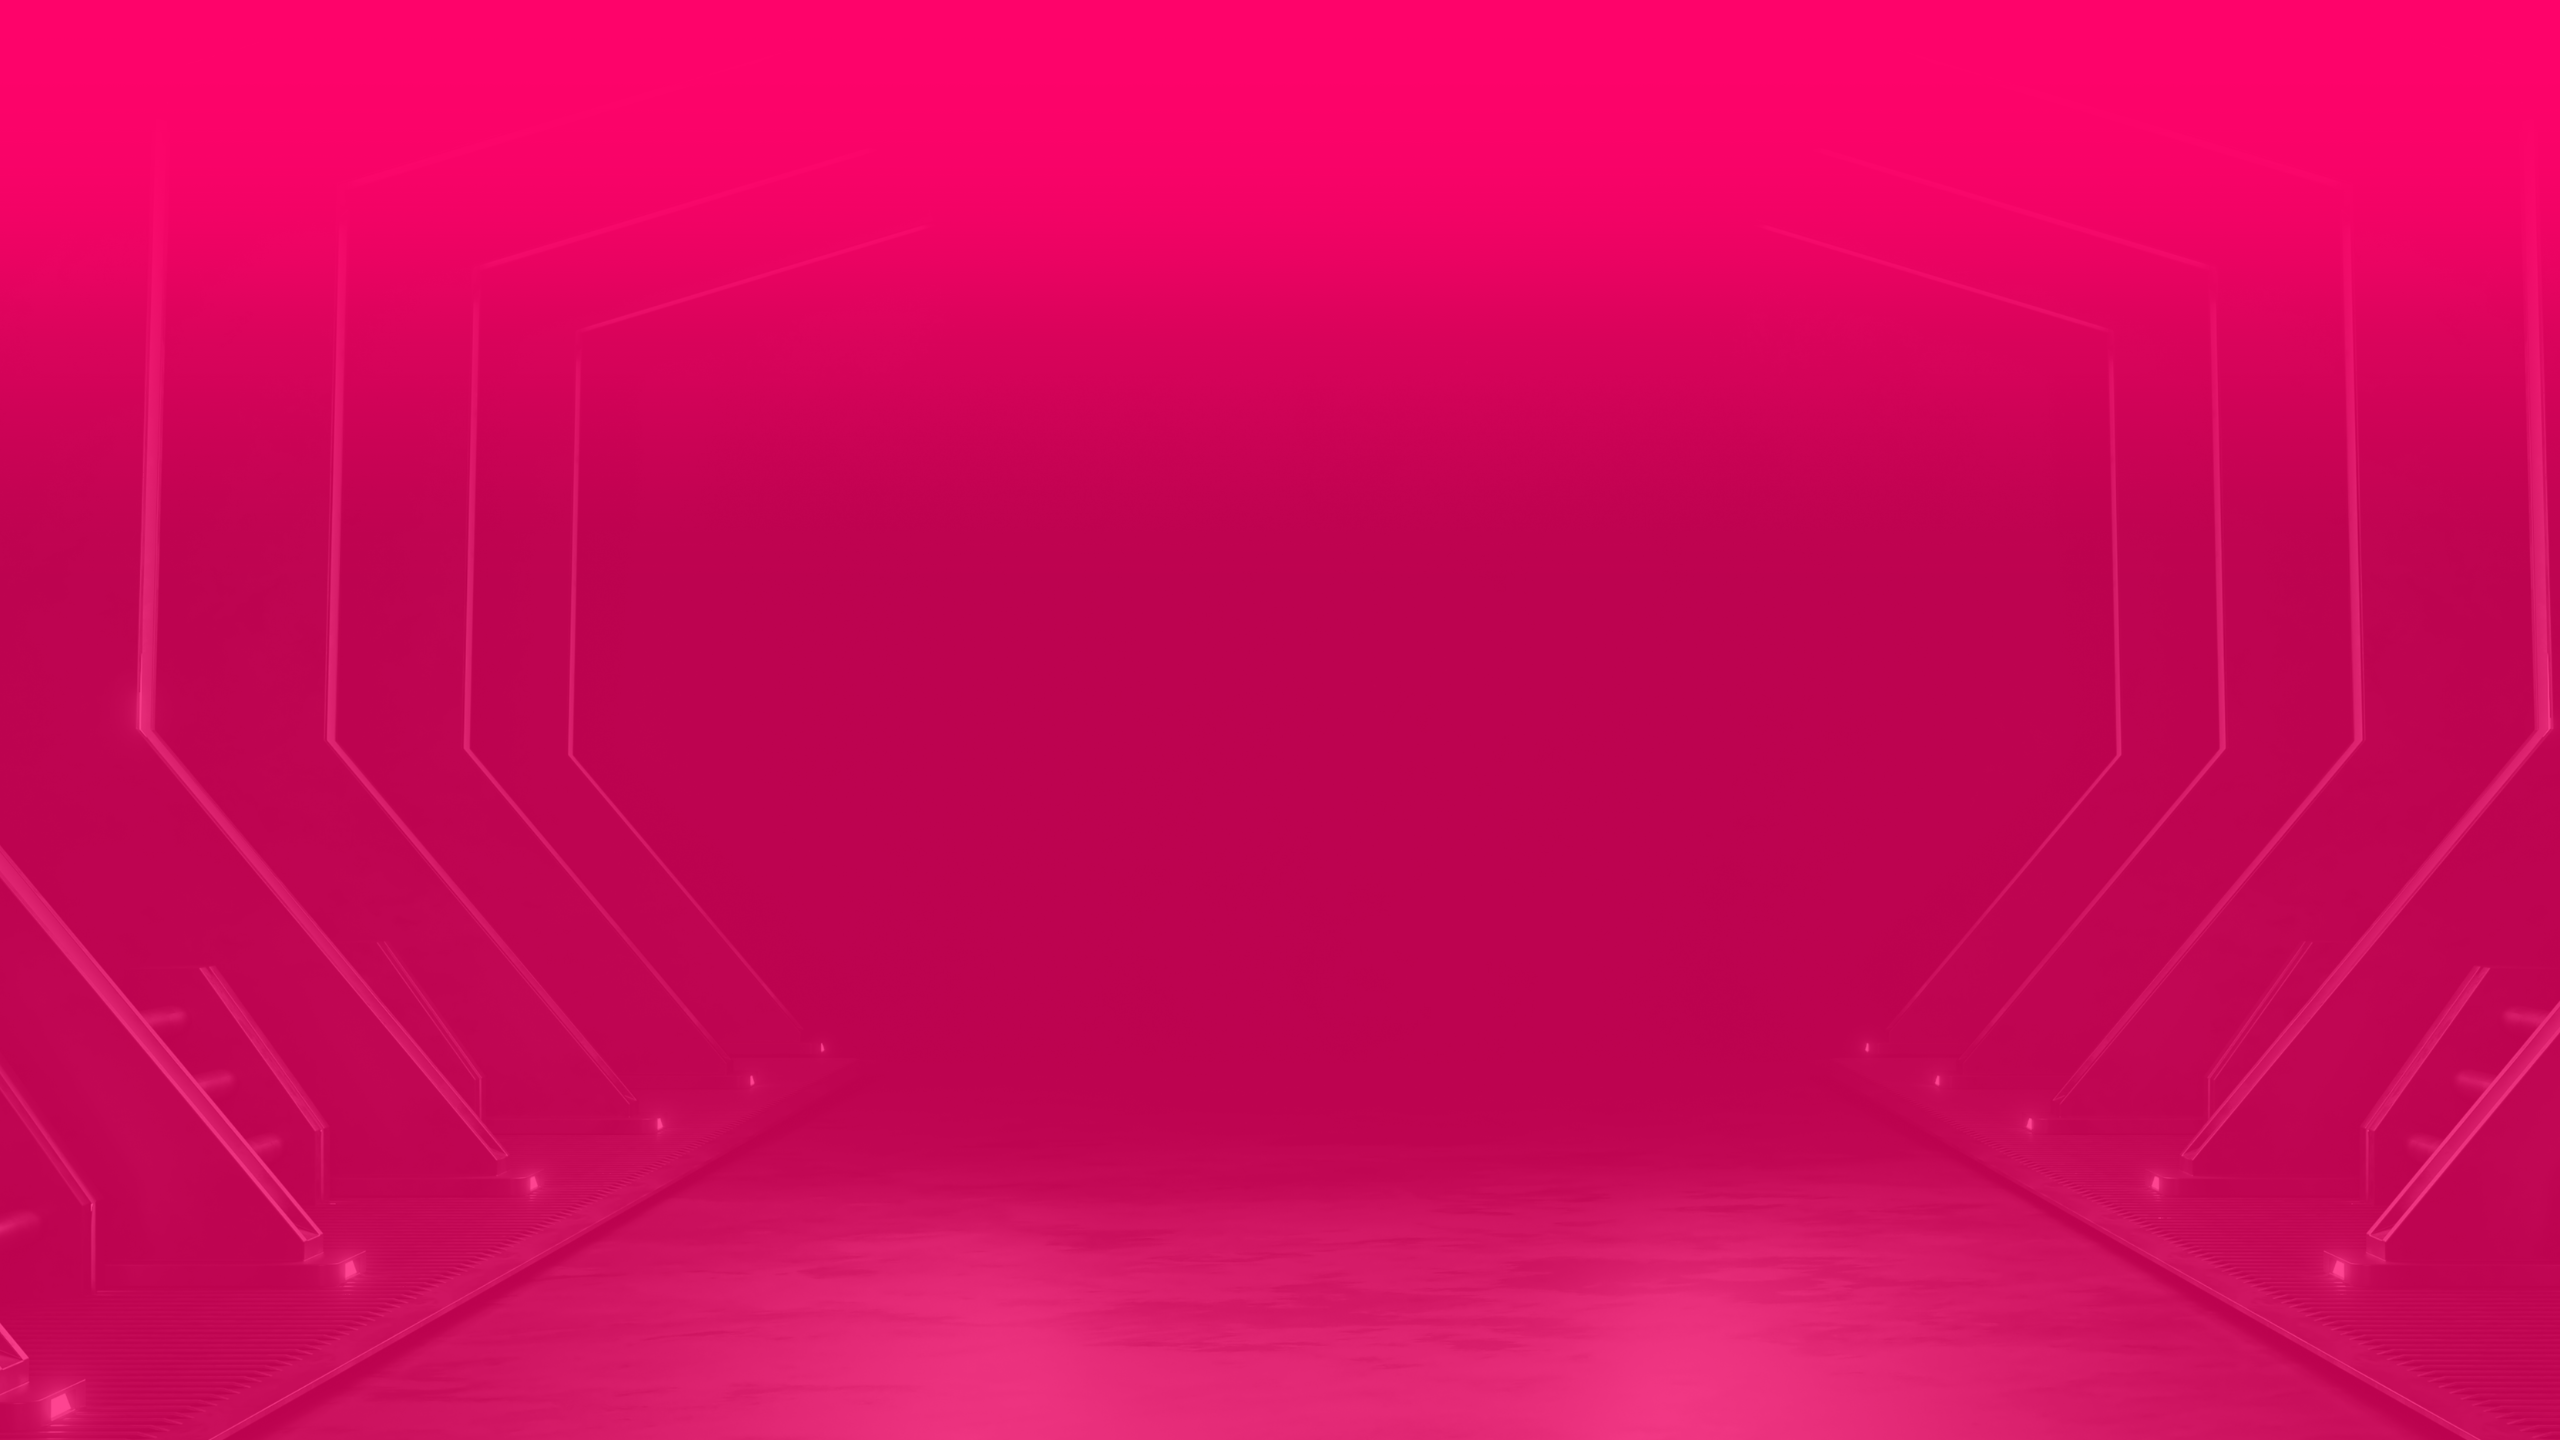
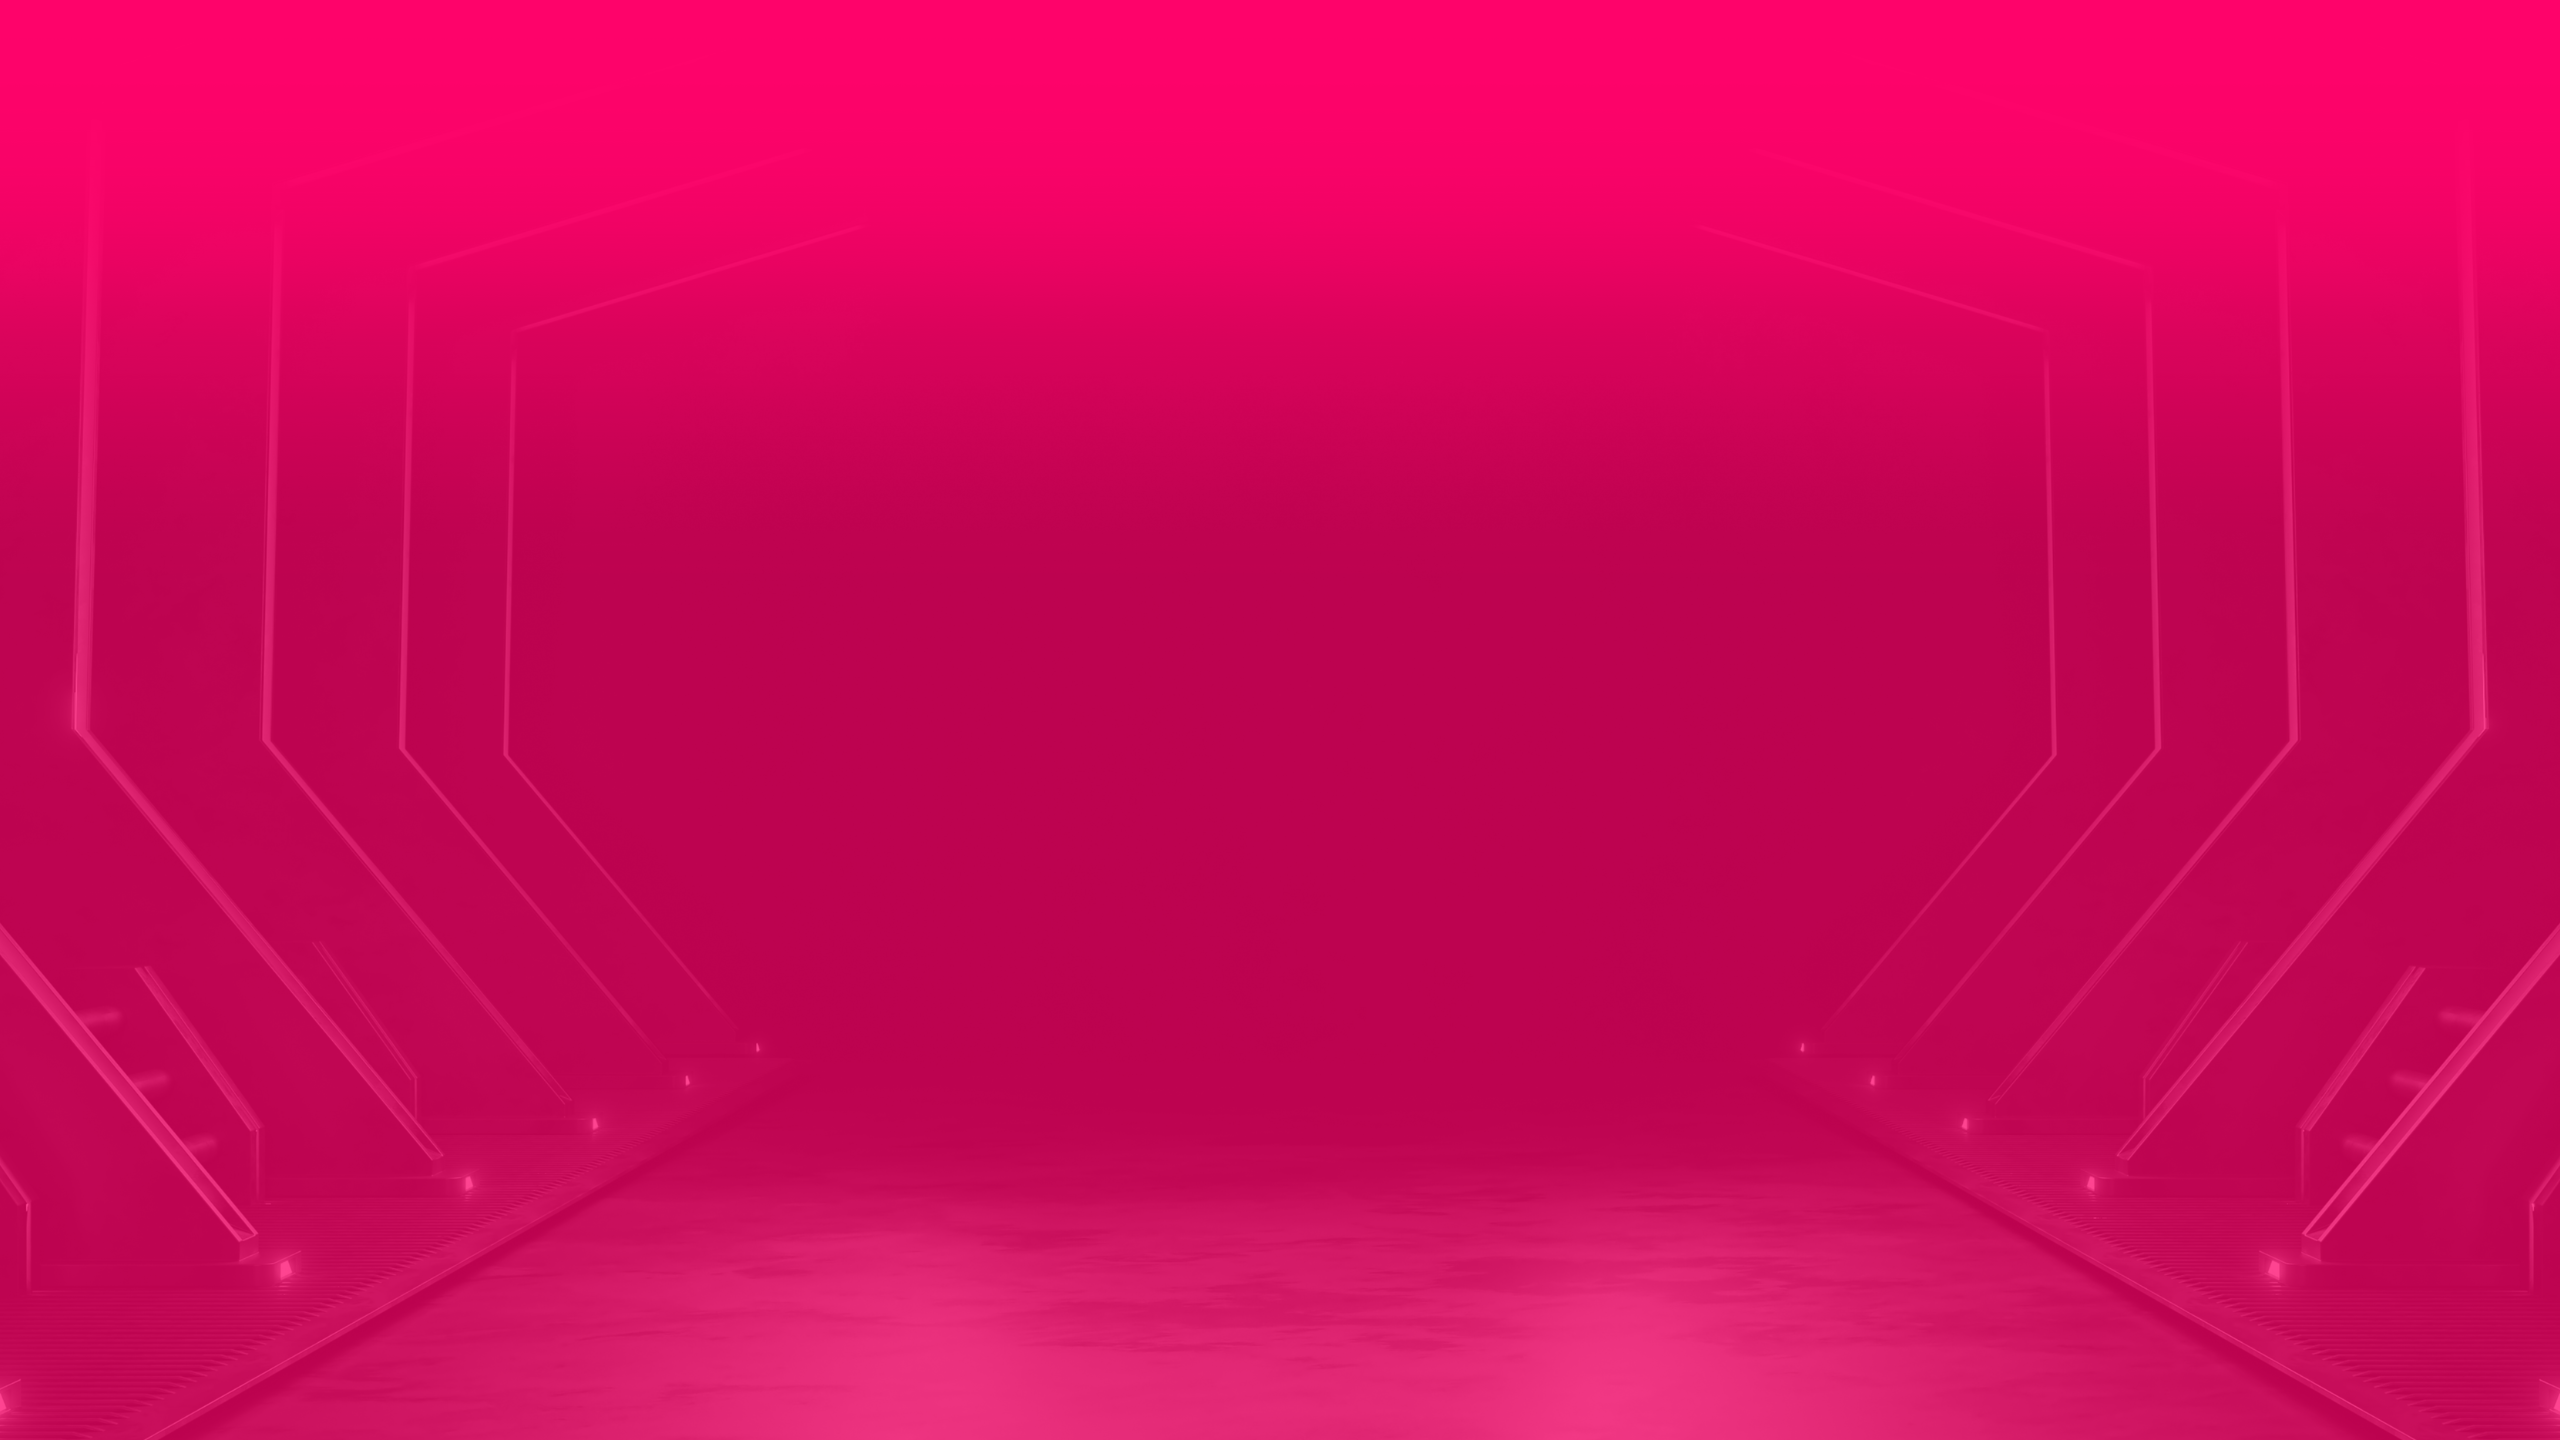
optimixed

diff --git a/src/styles/App.css b/src/styles/App.css
@@ -18,7 +18,8 @@
     align-items: center;
     gap: 10px;
     width: 90%;
-    margin: 120px auto;
+    margin: 20px auto;
+    margin-top: 120px;
     background: url(/FLARE.png), url(/LIGHTING.png);
     background-position: 45% 50%;
     background-repeat: no-repeat;
@@ -53,8 +54,10 @@
     .hero-grid{
         grid-template-columns: 1fr;
         width: 100%;
-        margin: 100px auto;
+        margin: 20px auto;
+        margin-top: 100px;
         gap: 2%;
+        background-position: 50% 65%;
     }
     .right{
         text-align: center;
